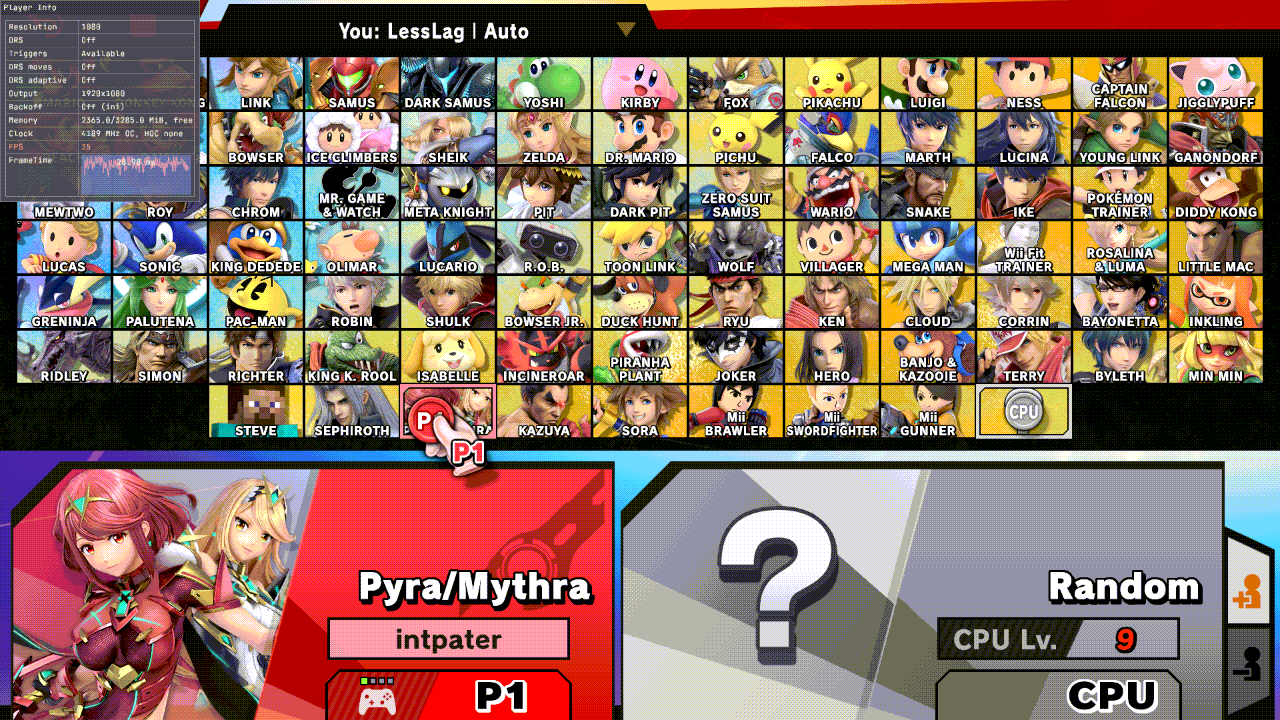
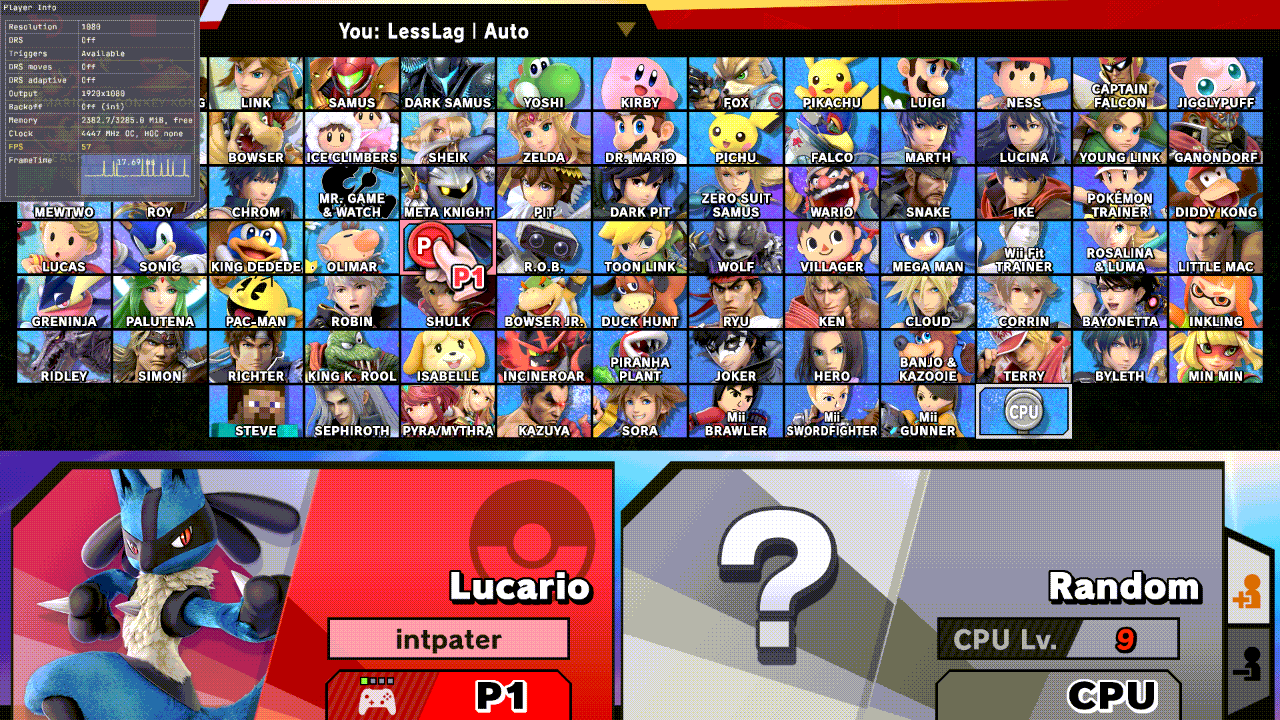
Docs: quota calibrated to the console (175 %), clips re-recorded at it, method page gets the sweep
Switches off at 175 %: character select 50-53 fps (console 49.9); switches on
60.0 (console 59.85); Training Blazing End vs Terry 52 -> 59. Sweep table
175/160/150/140/130 -> 52/46/43/38/35 in EMULATOR_METHOD. The 120 % clips and
the Training stills from that attempt are replaced; README and VALIDATION
carry the calibrated numbers.

diff --git a/docs/EMULATOR_METHOD.md b/docs/EMULATOR_METHOD.md
@@ -45,15 +45,36 @@ settings this project has used:
 
 | Quota | Period | Used for | Result |
 | --- | --- | --- | --- |
-| 175 % | 5 ms | Dispatcher backoff A/B/A on the character select, LessLag (0.3.1) | 52 → 59 fps with the hook, 18 % less CPU per frame; Vanilla and LLDoubles stayed at 60 |
-| 120 % | 5 ms | FX Control effect campaign (2026-10-15), present-at-flush before/after clips | reproduces the console's character-select dip; every FX mode sits at the quota's ceiling, so On/Off/Reduced compare by worst interval |
+| 175 % | 5 ms | Dispatcher backoff A/B/A on the character select, LessLag (0.3.1); the calibrated before/after clips (2026-10-16) | 52 → 59 fps with the hook, 18 % less CPU per frame; Vanilla and LLDoubles stayed at 60 |
+| 120 % | 5 ms | FX Control effect campaign (2026-10-15); first before/after clip attempt | far harsher than the console (35 fps on the character select with both switches off); every FX mode sits at the quota's ceiling, so On/Off/Reduced compare by worst interval |
 | none | — | latency trials, control runs | 60 fps everywhere; the stall does not appear |
 
-The quota is applied after the run starts (the unit name is in the launcher's
-`run.json`), kept identical for the "before" and "after" state of an A/B, and
-written into the notes of the run. If a scene shows no drop at 120 %, the
-quota is tightened in steps (100 %, 90 %) until the "before" state drops and
-the same value is used for "after"; the value used is stated with the clip.
+### Calibrating the quota to the console
+
+The quota is a dial, so it was swept against the console's two known
+numbers for the character-select hand sweep: **49.9 fps** before the
+present-at-flush fix and **59.85 fps** after it. One Eden run, build
+`0.5.3-d10fce5eeb59`, LessLag, both switches off, the same 20 s hand sweep
+at each step, three `game_fps` samples and the Performance view's FPS row:
+
+| Quota | `game_fps` samples | FPS row |
+| --- | --- | --- |
+| 175 % | 50.0 · 51.0 · 52.0 | 52 |
+| 160 % | 46.9 · 45.1 · 47.3 | 46 |
+| 150 % | 40.9 · 43.9 · 40.0 | 43 |
+| 140 % | 38.0 · 38.0 · 34.8 | 38 |
+| 130 % | 32.9 · 31.0 · 36.1 | 35 |
+| 120 % (first attempt) | 34.0 | 35 |
+
+**175 %** is the calibrated value: the off state lands on the console's
+49.9, and with both switches on the same quota gives 60.0 on the character
+select (console 59.85) and 60.0 in Training with Pyra's Blazing End. The
+off state in Training read 52–57 fps at 175 %. The quota is applied after
+the run starts (the unit name is in the launcher's `run.json`), kept
+identical for the "before" and "after" state of an A/B, and written into the
+notes of the run. The calibration holds for this host (Yoga, Intel Lunar
+Lake) and this Eden build; another machine needs its own sweep against the
+same two console numbers.
 
 ## What the bias does and does not reproduce
 
@@ -94,21 +115,22 @@ the same value is used for "after"; the value used is stated with the clip.
 The clips live under `docs/media/toggles-*.gif`; the run notes and the exact
 quota are in the evidence root beside the captures.
 
-## Result of the 2026-10-16 clips
+## Result of the 2026-10-16 clips (calibrated, 175 %)
 
-Build `0.5.3-d10fce5eeb59`, quota 120 % / 5 ms for both states, LessLag,
-docked 1080p, Eden GIF build on the private display. Read from the
-Performance view in the clips and `renderer-status.txt` after each clip:
+Build `0.5.3-d10fce5eeb59`, quota 175 % / 5 ms for both states, LessLag,
+docked 1080p, Eden GIF build on the private display, Terry as the Training
+CPU in both runs. `game_fps` is Eden's own counter sampled right after each
+6 s clip; the Performance view in the clip agrees within a frame or two.
 
-| Scene | Switches off | Switches on |
-| --- | --- | --- |
-| Character select, hand sweep | FPS 35, frame time 28.6 ms, Backoff `Off (ini)`, `early_presents=0` | FPS 58, 17.2 ms, Backoff 1 840/s 40 µs, `early_presents=4119` (one per present) |
-| Training, Pyra Blazing End at a stopped CPU | FPS 29, 34.8 ms, `Off (ini)`, 0 | FPS 52, 19.2 ms, 1 738/s 50 µs, 10 205 |
+| Scene | Switches off | Switches on | Console |
+| --- | --- | --- | --- |
+| Character select, hand sweep | 50–53 fps during the sweep (52.8 after the clip), Backoff `Off (ini)`, `early_presents=0` | 60.0 fps, Backoff 2 782/s 50 µs, `early_presents=4228` (one per present) | 49.9 → 59.85 |
+| Training, Pyra Blazing End at a stopped CPU | 52.0 fps, `Off (ini)`, 0 | 59.0 fps, 1 398/s 50 µs, 12 568 | 60 with the switches on |
 
-The recorder reported 73 / 73 / 69 / 72 frames with 0, 0, 3 and 1 dropped
-over the 6 s clips. The off state is harsher than the console's 49.9 fps
-because the quota is a blunt instrument, not a calibrated Switch; the
-direction and the mechanism are what the clips establish.
+The recorder reported 72 / 73 / 73 / 73 frames and no dropped frame over the
+four clips. A first attempt at 120 % gave 35 / 58 fps on the character select
+and 29 / 52 in Training: the same direction, but an off state far harsher than
+the console, which is what the calibration sweep above corrects.
 
 Caveat for every emulator run: the **Clock** row and the `# clock=` header
 read the host CPU (about 4.2 GHz here, reported as `oc`); they mean

diff --git a/README.md b/README.md
@@ -97,24 +97,25 @@ behaviour). Right: both on.
 | Character select, hand sweep | ![Character select, switches off](docs/media/toggles-css-off.gif) | ![Character select, switches on](docs/media/toggles-css-on.gif) |
 | Training, LessLag, Pyra Blazing End | ![Training, switches off](docs/media/toggles-effects-off.gif) | ![Training, switches on](docs/media/toggles-effects-on.gif) |
 
-The Performance view in each clip, full size, read off the same runs
-(stills: [CSS off](docs/media/toggles-css-perf-off.png) ·
-[CSS on](docs/media/toggles-css-perf-on.png) ·
-[Training off](docs/media/toggles-effects-perf-off.png) ·
-[Training on](docs/media/toggles-effects-perf-on.png)):
+The quota was calibrated against the console first: with both switches off,
+175 % puts the character-select hand sweep at 50–53 fps, where the console
+sat (49.9 fps) before the 0.4.0 fix. The same quota is used for both
+columns. Full-size Performance stills from the character-select runs:
+[off](docs/media/toggles-css-perf-off.png) ·
+[on](docs/media/toggles-css-perf-on.png).
 
-| Scene, 120 % CPU quota | Both off | Both on |
-| --- | --- | --- |
-| Character select: FPS row / frame time | 35 / 28.6 ms | 58 / 17.2 ms |
-| Training, Blazing End: FPS row / frame time | 29 / 34.8 ms | 52 / 19.2 ms |
-| Backoff row | `Off (ini)` | 1 840/s · 40 µs (CSS), 1 738/s · 50 µs (Training) |
-| `early_presents` over the run (`renderer-status.txt`) | 0 | 4 119 (CSS), 10 205 (Training): one per frame |
+| Scene, 175 % CPU quota (calibrated) | Both off | Both on | Console, for comparison |
+| --- | --- | --- | --- |
+| Character select, hand sweep | 50–53 fps | 60.0 fps | 49.9 → 59.85 fps |
+| Training, Pyra Blazing End vs Terry | 52 fps | 59 fps | LessLag Training holds 60 on the console |
+| Backoff row | `Off (ini)` | 2 782/s · 50 µs (CSS), 1 398/s · 50 µs (Training) | — |
+| `early_presents` over the run (`renderer-status.txt`) | 0 | 4 228 (CSS), 12 568 (Training): one per frame | — |
 
-Same build (`0.5.3-d10fce5eeb59`), same quota, same profile; the Training
-CPU opponent differed between the two runs (Simon, Pit; Random CPU), the
-Pyra side special did not. Emulator clips show the mechanism, not console
-numbers; the console results are in
-[Rendering profiles](docs/RENDERING.md#measured-results).
+Same build (`0.5.3-d10fce5eeb59`), same quota, same profile, same CPU
+opponent; the clips are 6 s at 12 fps, 72–73 frames each, none dropped.
+Emulator clips show the mechanism, not console numbers; the console results
+are in [Rendering profiles](docs/RENDERING.md#measured-results) and the
+calibration in [Mimicking the Switch in Eden](docs/EMULATOR_METHOD.md).
 
 ## What it does
 

diff --git a/docs/VALIDATION.md b/docs/VALIDATION.md
@@ -2499,15 +2499,20 @@ read at start, carried through the settings atomics; `DISABLE_BACKOFF`
 unchanged. Commits 7635c5c / 6591d6b: README "Before and after, on the
 emulator" and `docs/EMULATOR_METHOD.md` (the CPU-quota bias and its
 limits). Clips: Eden GIF build on the private display, isolated profile,
-build `0.5.3-d10fce5eeb59` (`artifacts/389b94963c3412f3/`), quota 120 % /
-5 ms on both runs, LessLag docked 1080p, driven by an Astra low session from
-`toggle-gifs-1016/BRIEF.md`; 4 GIFs (73/73/69/72 frames, 0/0/3/1 dropped)
-and the Performance stills in `docs/media/toggles-*`. Read from the
-Performance view: character select 35 → 58 fps (frame time 28.6 → 17.2 ms),
-Training with Blazing End 29 → 52 fps (34.8 → 19.2 ms), Backoff `Off (ini)`
-→ 1 840 / 1 738 sleeps/s, `early_presents` 0 → one per present. Evidence
-root: `toggle-gifs-1016/` (NOTES.md, renderer-*.txt, config-used-*.ini,
-driver-evidence.jsonl). Host tests 310, clippy `-D warnings`,
+build `0.5.3-d10fce5eeb59` (`artifacts/389b94963c3412f3/`), LessLag docked
+1080p, driven by Astra low sessions from `toggle-gifs-1016/BRIEF.md` and
+`BRIEF-calibration.md`. A first pass at a 120 % CPU quota gave 35 → 58 fps on
+the character select and 29 → 52 in Training (73/73/69/72 frames, 0/0/3/1
+dropped); the operator asked for a quota tuned to the console, so the quota
+was swept with both switches off (175 % → 52 fps, 160 → 46, 150 → 43,
+140 → 38, 130 → 35 on the hand sweep) and **175 %** chosen as the value
+that reproduces the console's 49.9 fps; with both switches on the same quota
+gives 60.0 (console 59.85). Final clips at 175 % (72/73/73/73 frames, none
+dropped; `docs/media/toggles-*`): character select 50–53 → 60.0 fps,
+Training with Blazing End vs Terry 52 → 59 fps, Backoff `Off (ini)` →
+2 782 / 1 398 sleeps/s, `early_presents` 0 → one per present. Evidence
+root: `toggle-gifs-1016/` (NOTES.md, CALIBRATION.md, q-renderer-*.txt,
+q-config-used-*.ini, driver-evidence.jsonl). Host tests 310, clippy `-D warnings`,
 `--no-default-features`, Skyline release build. **Emulator only; not on the
 card; not merged** — the operator reviews the branch first.
 
